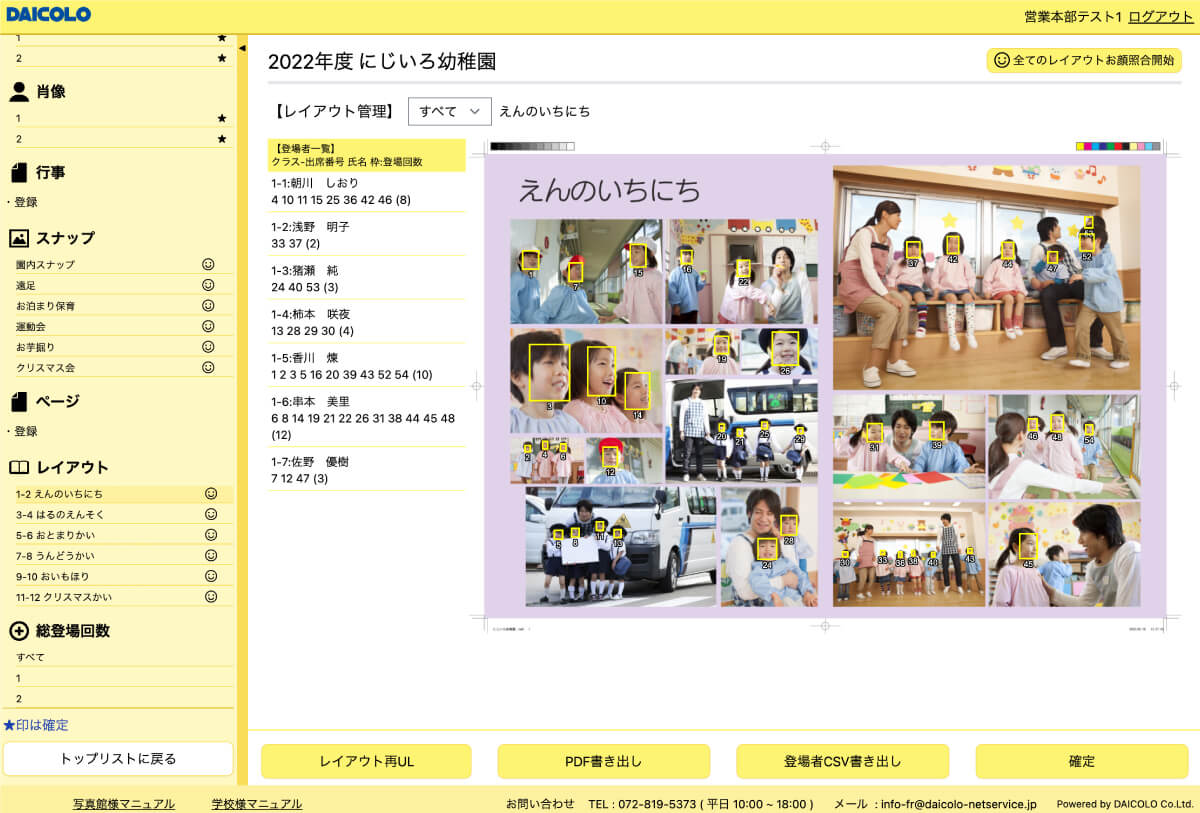
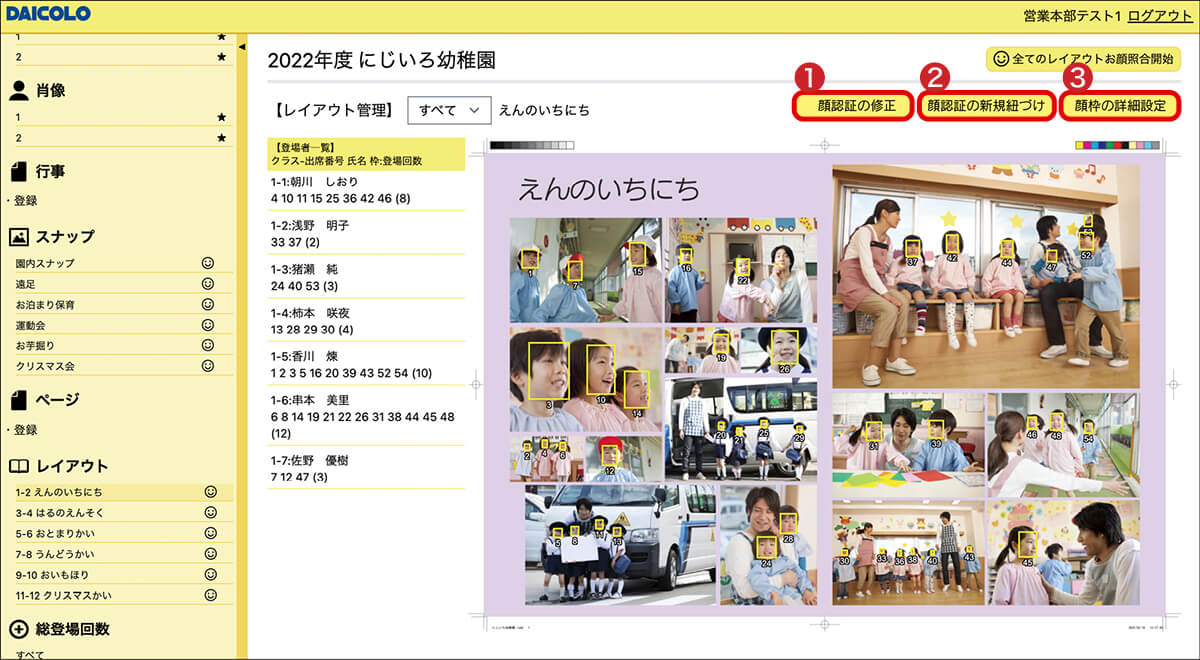
1024

diff --git a/index.html b/index.html
@@ -33,9 +33,9 @@
 
               <p style="margin:0 0 16px 0;">
                 【ダイコロアルバム顔認証2.0】をご利用いただき、ありがとうございます。<br>
-                寄せられたご意見・ご要望をもとに、「顔認証の修正」「顔枠の詳細設定」機能を追加し、より便利にご利用いただけるようになりました！<br>
+                寄せられたご意見・ご要望をもとに、「顔認証の修正」「顔認証の新規紐づけ」「顔枠の詳細設定」機能を追加し、より便利にご利用いただけるようになりました！<br>
                 ぜひご操作をお試しください。アルバム制作の作業時間短縮により一層お役立ていただけますと幸いです。<br>
-                ※「顔認証の修正」機能は先生権限でもご利用いただけます。
+                ※「顔認証の修正」「顔認証の新規紐づけ」機能は先生権限でもご利用いただけます。
               </p>
 
               <table role="presentation" width="100%" cellpadding="0" cellspacing="0" border="0" style="border-collapse:collapse; margin:16px 0;">
@@ -44,8 +44,9 @@
               <h3 style="margin:16px 0 8px 0; color:#F97316; font-size:1.5em;">追加機能内容！</h3>
               <p style="margin:0 0 8px 0;">
               <span style="color:#EF4444;">❶</span>顔認証の修正<br>
-              <span style="color:#EF4444;">❷</span>顔枠の詳細設定<br>
-              その他ボタンの追加
+              <span style="color:#EF4444;">❷</span>顔認証の新規紐づけ<br>
+              <span style="color:#EF4444;">❸</span>顔枠の詳細設定<br>
+              <span style="color:#EF4444;">❹</span>その他機能
               </p>
               <p style="margin:0 0 8px 0;">
                 <img src="https://snazzy-profiterole-6e6c6f.netlify.app/Links/7-3_2.jpg" alt="ダイコロ顔認証システム2.0 新機能のお知らせ" width="550"
@@ -61,23 +62,28 @@
               <h3 style="margin:16px 0 8px 0; color:#F97316; font-size:1.5em;"><span
                   style="color:#EF4444;">❶</span>顔認証の修正</h3>
 
-              <p style="margin:0 0 16px 0;">システム上でクラス・氏名の紐づけや顔認証の修正を行うことができます。</p>
+              <p style="margin:0 0 16px 0;">システム上で顔認証の修正を行うことができます。</p>
 
               <p style="margin:0 0 16px 0;"><strong>【活用例】</strong><br>
-                <span style="color:#F97316;">お困りごと①：</span>顔認証でクラス・氏名の紐づけに誤りがある生徒がいる<br>
+                <span style="color:#F97316;">お困りごと：</span>顔認証でクラス・氏名の紐づけに誤りがある生徒がいる<br>
                 <span style="color:#F97316;">これで解決：</span>[顔認証の修正]ボタンから生徒の顔枠をクリックし、正しいクラス・氏名を選択。<br>
                 簡単に紐づけし直すことができます。
               </p>
 
+              <h3 style="margin:16px 0 8px 0; color:#F97316; font-size:1.5em;"><span
+                  style="color:#EF4444;">❷</span>顔認証の新規紐づけ</h3>
+
+              <p style="margin:0 0 16px 0;">システム上でクラス・氏名の紐づけを行うことができます。</p>
+
               <p>
-                <span style="color:#F97316;">お困りごと②：</span>顔認証されなかった生徒がいる<br>
-                <span style="color:#F97316;">これで解決：</span>[顔認証の修正]ボタンから顔認証したい生徒の写真をクリックして、名表から正しいクラス・氏名を選択してください。
+                <span style="color:#F97316;">お困りごと：</span>顔認証されなかった生徒がいる<br>
+                <span style="color:#F97316;">これで解決：</span>[顔認証の新規紐づけ]ボタンをクリックして、名表から正しいクラス・氏名を選択してください。
               </p>
 
               <h2 style="margin:50px 0 16px 0; color:#EF4444; font-size: 24px; line-height: 1.5;">顔枠の色変更でもっと見やすく！</h2>
 
               <h3 style="margin:16px 0 8px 0; color:#F97316; font-size:1.5em;"><span
-                  style="color:#EF4444;">❷</span>顔枠の詳細設定</h3>
+                  style="color:#EF4444;">❸</span>顔枠の詳細設定</h3>
 
               <p style="margin:0 0 20px 0;">
                 顔認証後に表示される顔枠の色を9色の中から変更できます。<br>
@@ -94,7 +100,8 @@
               <img src="https://snazzy-profiterole-6e6c6f.netlify.app/Links/color.jpeg" alt="顔枠の設定画面イメージ" width="300" height="26"
                 style="display:block; margin:0; width:100%; max-width:300px; height:auto; border:0; -ms-interpolation-mode:bicubic;">
 
-              <h3 style="margin:24px 0 8px 0; color:#F97316; font-size:1.5em;">その他ボタンの追加</h3>
+              <h3 style="margin:24px 0 8px 0; color:#F97316; font-size:1.5em;"><span
+                  style="color:#EF4444;">❹</span>その他機能</h3>
 
               <p style="margin:0 0 8px 0;">
                 ●名表ページ：全削除ボタンを追加<br>
@@ -105,6 +112,9 @@
               <p style="margin:0 0 16px 0;">
                 ●スナップページ：削除ボタンを追加
               </p>
+              <p style="margin:0 0 8px 0;">
+                ●PDFレポートの表示改善<br>
+→PDFレポートの数字に黒枠を追加し、レイアウト表示を拡大しました。</p>
 
               <p>
                 使い方の詳細はシステム下部バーの「操作マニュアル」をダウンロードしてご確認ください。
